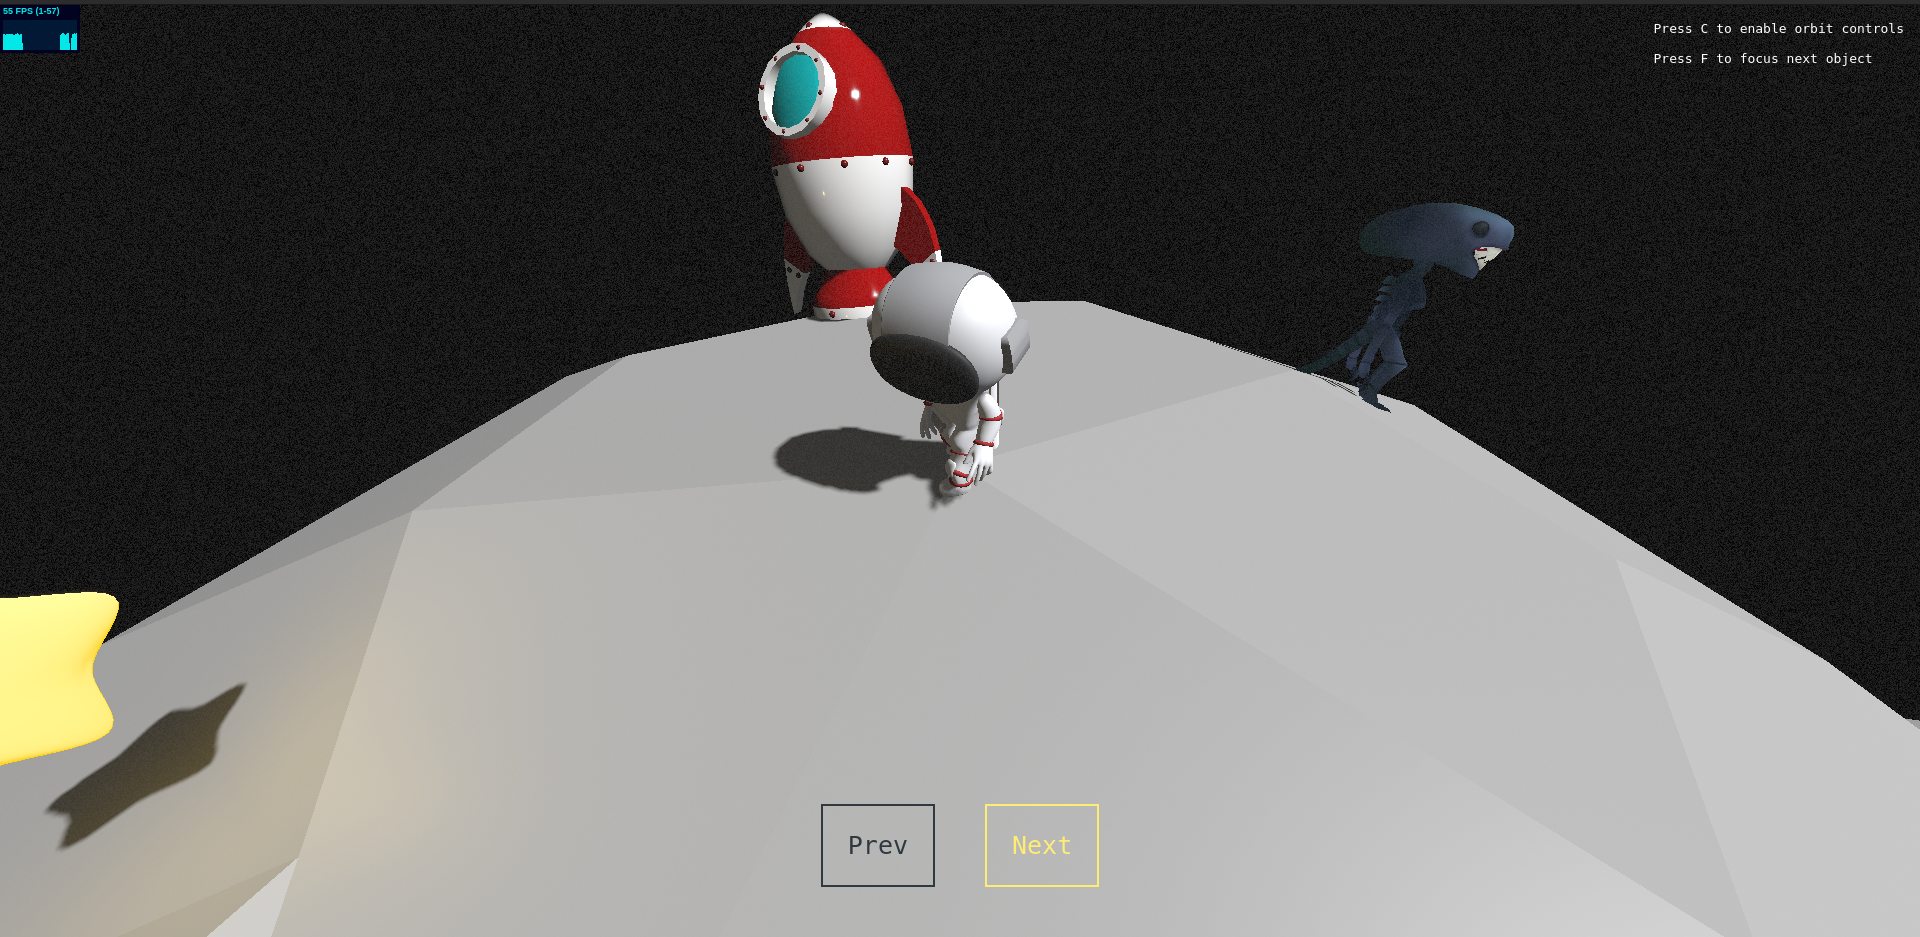
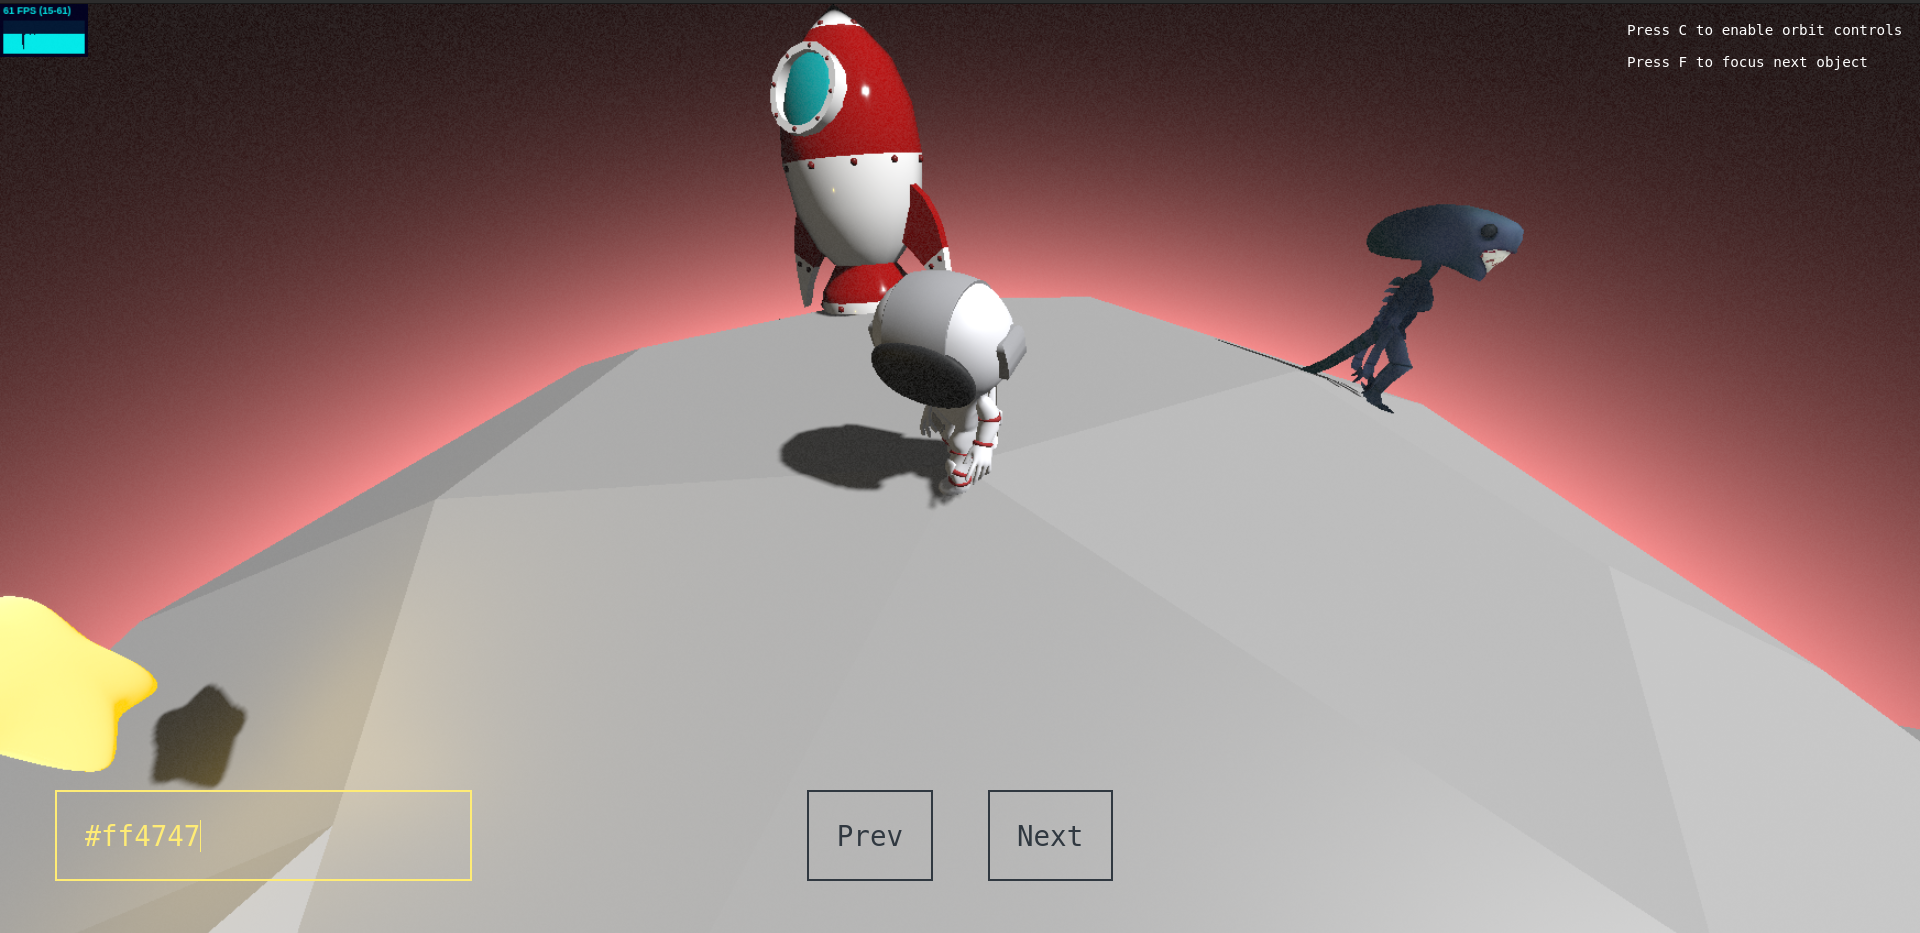
Update readme

diff --git a/src/three/App/Postprocessing.js b/src/three/App/Postprocessing.js
@@ -60,15 +60,15 @@ export class Postprocessing extends BasePostprocessing {
   }
 
   onUpdate(deltaTime) {
-    const ammount = this._caEfectOn ? smoothstep(this._cameraSpeed, 0, 2) * 0.008 : 0;
+    const amount = this._caEfectOn ? smoothstep(this._cameraSpeed, 0, 2) * 0.008 : 0;
     this._caEffect.offset.x = lerp(
       this._caEffect.offset.x,
-      ammount,
+      amount,
       deltaTime * this._dampFactor
     );
     this._caEffect.offset.y = lerp(
       this._caEffect.offset.y,
-      ammount,
+      amount,
       deltaTime * this._dampFactor
     );
   }

diff --git a/README.md b/README.md
@@ -27,6 +27,7 @@ npm run dev
 - Animations
 - Slider between scene objects
 - Camera speed based chromatic aberration
+- Atmosphere shader(WIP, basic fresnel effect and blend between inner and outer view)
 
 ![img.png](doc/img.png)
 
